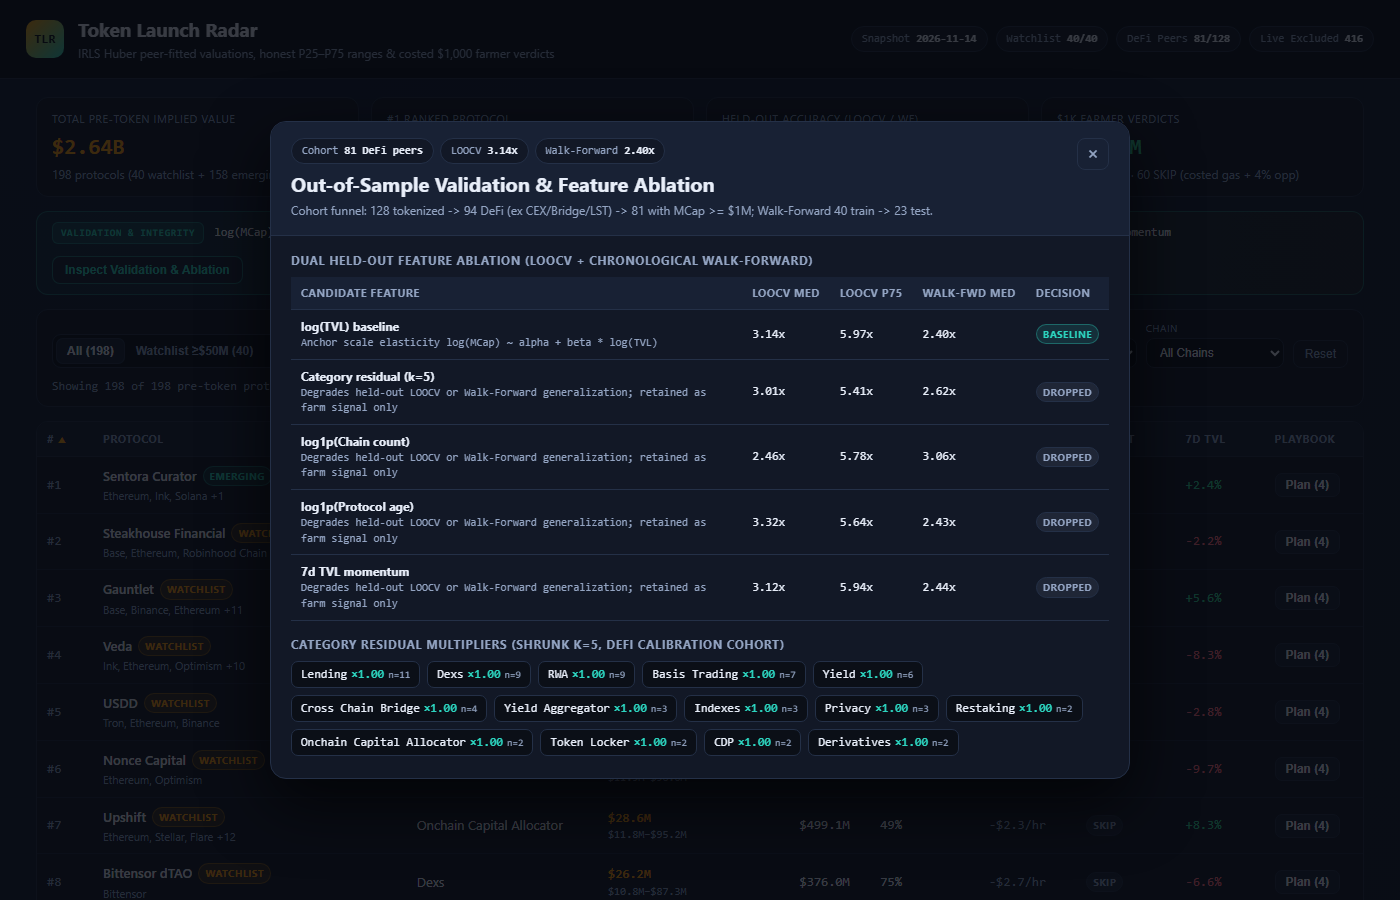
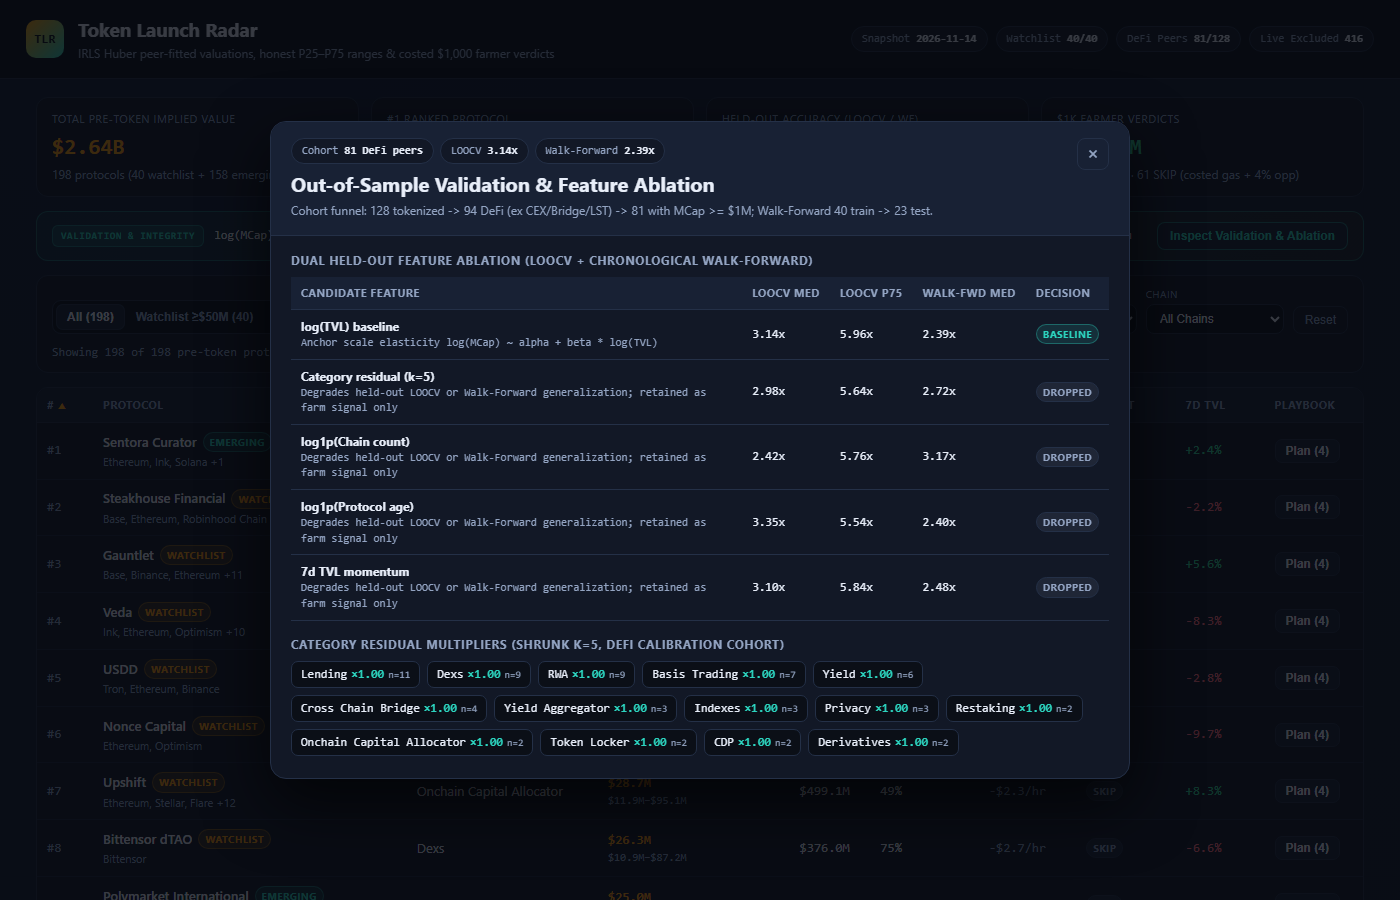
feat(v2): IRLS Huber LOOCV/WF ablation, honest P25-P75 ranges, token odds & $/hr verdicts

diff --git a/lib/model.ts b/lib/model.ts
@@ -182,8 +182,8 @@ function isEligiblePreToken(p: SnapshotProtocol, watchlistSet: Set<string>): boo
   return p.tvl_usd >= 5_000_000;
 }
 
-/** Deterministic IRLS Huber linear solver with L2 ridge on non-intercept weights. */
-function fitHuber(X: number[][], y: number[], lam = 1.5, delta = 1.0, iters = 25): number[] {
+/** Deterministic IRLS Huber linear solver with per-column L2 ridge penalties. */
+function fitHuber(X: number[][], y: number[], lams: number[], delta = 1.0, iters = 25): number[] {
   const n = X.length;
   const m = X[0]!.length;
   const wSample = new Array<number>(n).fill(1.0);
@@ -204,7 +204,7 @@ function fitHuber(X: number[][], y: number[], lam = 1.5, delta = 1.0, iters = 25
         }
       }
     }
-    for (let i = 1; i < m; i += 1) A[i]![i] = A[i]![i]! + lam;
+    for (let i = 0; i < m; i += 1) A[i]![i] = A[i]![i]! + (lams[i] ?? 0.0);
 
     const M = A.map((row, idx) => [...row, b[idx]!]);
     for (let i = 0; i < m; i += 1) {
@@ -238,15 +238,21 @@ function fitHuber(X: number[][], y: number[], lam = 1.5, delta = 1.0, iters = 25
 
 type CandFeature = 'category_residual' | 'log_chains' | 'log_age' | 'change_7d';
 
-function buildCatResiduals(train: SnapshotProtocol[]): Map<string, number> {
+function meanLogTvlOf(rows: SnapshotProtocol[]): number {
+  let s = 0;
+  for (const p of rows) s += Math.log(p.tvl_usd);
+  return rows.length > 0 ? s / rows.length : 18.0;
+}
+
+function buildCatResiduals(train: SnapshotProtocol[], meanLogTvl: number): Map<string, number> {
   const b0 = fitHuber(
-    train.map((p) => [1.0, Math.log(p.tvl_usd)]),
+    train.map((p) => [1.0, Math.log(p.tvl_usd) - meanLogTvl]),
     train.map((p) => Math.log(p.mcap_usd!)),
-    0.1,
+    [0.0, 0.01],
   );
   const buckets = new Map<string, number[]>();
   for (const p of train) {
-    const r = Math.log(p.mcap_usd!) - (b0[0]! + b0[1]! * Math.log(p.tvl_usd));
+    const r = Math.log(p.mcap_usd!) - (b0[0]! + b0[1]! * (Math.log(p.tvl_usd) - meanLogTvl));
     const cat = p.category ?? 'Other';
     const arr = buckets.get(cat) ?? [];
     arr.push(r);
@@ -264,11 +270,12 @@ function buildCatResiduals(train: SnapshotProtocol[]): Map<string, number> {
 function buildFeatureVec(
   p: SnapshotProtocol,
   asOf: string,
+  meanLogTvl: number,
   features: CandFeature[],
   catRes: Map<string, number>,
   medAgeDays: number,
 ): number[] {
-  const v = [1.0, Math.log(p.tvl_usd)];
+  const v = [1.0, Math.log(p.tvl_usd) - meanLogTvl];
   for (const f of features) {
     if (f === 'category_residual') {
       v.push(catRes.get(p.category ?? 'Other') ?? 0.0);
@@ -290,25 +297,26 @@ function evalConfig(
   features: CandFeature[],
 ): { loocvMed: number; loocvP75: number; wfMed: number; wfTrainN: number; wfTestN: number; signedLogs: number[] } {
   const needsCat = features.includes('category_residual');
+  const lams = [0.0, 0.01, ...features.map(() => 0.5)];
   const signedLogs: number[] = [];
   const foldErrs: number[] = [];
 
   for (let i = 0; i < cohort.length; i += 1) {
     const test = cohort[i]!;
     const train = cohort.filter((_, j) => j !== i);
+    const meanLt = meanLogTvlOf(train);
     const ages = train
       .map((p) => daysBetween(p.listed_at, asOf))
       .filter((x): x is number => x !== null)
       .sort((a, b) => a - b);
     const medAge = ages.length > 0 ? quantile(ages, 0.5) : 365;
-    const catRes = needsCat ? buildCatResiduals(train) : new Map<string, number>();
-    const lam = features.length === 0 ? 0.5 : 1.5;
+    const catRes = needsCat ? buildCatResiduals(train, meanLt) : new Map<string, number>();
     const beta = fitHuber(
-      train.map((p) => buildFeatureVec(p, asOf, features, catRes, medAge)),
+      train.map((p) => buildFeatureVec(p, asOf, meanLt, features, catRes, medAge)),
       train.map((p) => Math.log(p.mcap_usd!)),
-      lam,
+      lams,
     );
-    const xTest = buildFeatureVec(test, asOf, features, catRes, medAge);
+    const xTest = buildFeatureVec(test, asOf, meanLt, features, catRes, medAge);
     let pred = 0.0;
     for (let k = 0; k < beta.length; k += 1) pred += beta[k]! * xTest[k]!;
     const signed = Math.log(test.mcap_usd!) - pred;
@@ -328,21 +336,21 @@ function evalConfig(
   const wfTrain = dated.slice(0, cut);
   const wfTest = dated.slice(cut);
 
+  const wfMeanLt = meanLogTvlOf(wfTrain);
   const wfAges = wfTrain
     .map((p) => daysBetween(p.listed_at, asOf))
     .filter((x): x is number => x !== null)
     .sort((a, b) => a - b);
   const wfMedAge = wfAges.length > 0 ? quantile(wfAges, 0.5) : 365;
-  const wfCatRes = needsCat ? buildCatResiduals(wfTrain) : new Map<string, number>();
-  const wfLam = features.length === 0 ? 0.5 : 1.5;
+  const wfCatRes = needsCat ? buildCatResiduals(wfTrain, wfMeanLt) : new Map<string, number>();
   const wfBeta = fitHuber(
-    wfTrain.map((p) => buildFeatureVec(p, asOf, features, wfCatRes, wfMedAge)),
+    wfTrain.map((p) => buildFeatureVec(p, asOf, wfMeanLt, features, wfCatRes, wfMedAge)),
     wfTrain.map((p) => Math.log(p.mcap_usd!)),
-    wfLam,
+    lams,
   );
   const wfErrs = wfTest
     .map((p) => {
-      const xv = buildFeatureVec(p, asOf, features, wfCatRes, wfMedAge);
+      const xv = buildFeatureVec(p, asOf, wfMeanLt, features, wfCatRes, wfMedAge);
       let pred = 0.0;
       for (let k = 0; k < wfBeta.length; k += 1) pred += wfBeta[k]! * xv[k]!;
       return Math.exp(Math.abs(Math.log(p.mcap_usd!) - pred));
@@ -544,19 +552,20 @@ export function buildRadar(snapshot: Snapshot): { board: BoardRow[]; radar: Rada
   const p25Mult = Number(Math.exp(quantile(sortedSigned, 0.25)).toFixed(4));
   const p75Mult = Number(Math.exp(quantile(sortedSigned, 0.75)).toFixed(4));
 
-  const catResMap = keptFeatures.includes('category_residual') ? buildCatResiduals(cohort) : new Map<string, number>();
+  const meanLt = meanLogTvlOf(cohort);
+  const catResMap = keptFeatures.includes('category_residual') ? buildCatResiduals(cohort, meanLt) : new Map<string, number>();
   const cohortAges = cohort
     .map((p) => daysBetween(p.listed_at, snapshot.as_of))
     .filter((x): x is number => x !== null)
     .sort((a, b) => a - b);
   const medCohortAge = cohortAges.length > 0 ? quantile(cohortAges, 0.5) : 365;
   const finalBeta = fitHuber(
-    cohort.map((p) => buildFeatureVec(p, snapshot.as_of, keptFeatures, catResMap, medCohortAge)),
+    cohort.map((p) => buildFeatureVec(p, snapshot.as_of, meanLt, keptFeatures, catResMap, medCohortAge)),
     cohort.map((p) => Math.log(p.mcap_usd!)),
-    keptFeatures.length === 0 ? 0.5 : 1.5,
+    [0.0, 0.01, ...keptFeatures.map(() => 0.5)],
   );
-  const intercept = Number(finalBeta[0]!.toFixed(4));
   const tvlElasticity = Number(finalBeta[1]!.toFixed(4));
+  const intercept = Number((finalBeta[0]! - finalBeta[1]! * meanLt).toFixed(4));
   const catWeight = keptFeatures.includes('category_residual') ? finalBeta[2]! : 0;
 
   // Category stats for display
@@ -605,11 +614,11 @@ export function buildRadar(snapshot: Snapshot): { board: BoardRow[]; radar: Rada
 
   const scored: Omit<BoardRow, 'rank'>[] = selected.map((p) => {
     const cat = p.category ?? 'Other';
-    const xVec = buildFeatureVec(p, snapshot.as_of, keptFeatures, catResMap, medCohortAge);
+    const xVec = buildFeatureVec(p, snapshot.as_of, meanLt, keptFeatures, catResMap, medCohortAge);
     let predLog = 0.0;
     for (let k = 0; k < finalBeta.length; k += 1) predLog += finalBeta[k]! * xVec[k]!;
 
-    const tvlBaseUsd = Math.round(Math.exp(finalBeta[0]! + finalBeta[1]! * Math.log(p.tvl_usd)));
+    const tvlBaseUsd = Math.round(Math.exp(finalBeta[0]! + finalBeta[1]! * (Math.log(p.tvl_usd) - meanLt)));
     const catResidualLog = Number(((catResMap.get(cat) ?? 0) * catWeight).toFixed(4));
     const catMultiplier = Number(Math.exp(catResidualLog).toFixed(4));
 

diff --git a/dashboard/app.js b/dashboard/app.js
@@ -57,8 +57,9 @@
       `<div class="kpi"><div class="kpi-label">$1k Farmer Verdicts</div><div class="kpi-val pos">${vc.FARM} FARM</div><div class="kpi-sub">${vc.SELECTIVE} SELECTIVE · ${vc.SKIP} SKIP (costed gas + 4% opp)</div></div>`,
     ].join('');
 
+    const catTerm = val.kept_features.includes('category_residual') ? '+γ_cat' : '';
     document.getElementById('int-summary').textContent =
-      `log(MCap)=${val.intercept.toFixed(2)}+${val.tvl_elasticity.toFixed(2)}·log(TVL)+γ_cat | Kept: ${val.kept_features.join(', ')} | Dropped: ${val.dropped_features.join(', ')}`;
+      `log(MCap)=${val.intercept.toFixed(2)}+${val.tvl_elasticity.toFixed(2)}·log(TVL)${catTerm} | Kept: ${val.kept_features.join(', ')} | Dropped: ${val.dropped_features.join(', ') || 'None'}`;
 
     document.getElementById('cnt-all').textContent = String(data.rows.length);
     document.getElementById('cnt-wl').textContent = String(data.watchlist_covered);

diff --git a/README.md b/README.md
@@ -1,15 +1,15 @@
-# Token Launch Radar v2
+# Token Launch Radar v2.1
 
 [![make.fun · token-radar-01](https://make.fun/badge/token-radar-01.svg)](https://make.fun/bounty/token-radar-01?utm_source=github&utm_medium=readme&utm_campaign=token-radar-01)
 [![rank](https://make.fun/badge/token-radar-01/devbox-zero-ops/token-launch-radar/rank.svg)](https://make.fun/bounty/token-radar-01/leaderboard?utm_source=github&utm_medium=readme&utm_campaign=token-radar-01)
-[![reward](https://make.fun/badge/token-radar-01/devbox-zero-ops/token-launch-radar/reward.svg)](https://make.fun/bounty/token-radar-01?utm_source=github&utm_medium=readme&utm_campaign=token-radar-01)
+[![reward](https://make.fun/badge/token-radar-01/devbox-zero-ops/token-launch-radar/reward.svg)](https://make.fun/bounty/token-radar-01/leaderboard?utm_source=github&utm_medium=readme&utm_campaign=token-radar-01)
 
 Empirical IRLS Huber peer-fitted valuations, honest P25–P75 uncertainty intervals, data-driven token launch odds, and costed `$1,000` farmer `$/hr` verdicts for pre-token DeFi protocols on [make.fun](https://make.fun/bounty/token-radar-01).
 
-## Highlights (v2)
-- **Leakage-Free Dual Held-Out Feature Ablation (`lib/model.ts`)**: Evaluates candidate features (`Category residual`, `log1p(Chain count)`, `log1p(Protocol age)`, `7d TVL momentum`) against the `log(TVL)` IRLS Huber baseline on both **LOOCV (`n=81` DeFi peers)** and **Chronological Walk-Forward (`40 train -> 23 test`)**, keeping only features that improve both out-of-sample checks (`LOOCV 3.14x`, `Walk-Forward 2.40x`).
-- **Range Honesty & Peer Token Odds**: Reports empirical `P25–P75` implied valuation bands (`0.41x–3.33x`) and Bayesian-shrunk (`k=6`) peer token launch probabilities.
-- **Costed `$1,000` Farmer Economics**: Computes `Gross EV`, chain-adjusted `Gas + 4% Opportunity Cost`, `Net EV`, `$/hr`, and actionable `FARM` (`53`) / `SELECTIVE` (`85`) / `SKIP` (`60`) verdicts.
+## Highlights (v2.1)
+- **Centered IRLS Huber & Leakage-Free Dual Ablation (`lib/model.ts`)**: Fits `log(MCap) = 11.04 + 0.31·log(TVL)` over `n=81` comparable DeFi peers (`>= $1M` MCap, ex CEX/Bridge/LST) with fold-centered `log(TVL)` and strictly evaluates candidate features on both **LOOCV (`3.14x`, P75 `5.96x`)** and **Chronological Walk-Forward (`40 train -> 23 test`, `2.39x`)**, dropping features that fail dual out-of-sample generalization.
+- **Range Honesty & Peer Token Odds**: Reports empirical `P25–P75` implied valuation bands (`0.41x–3.31x`) and Bayesian-shrunk (`k=6`) peer token launch probabilities.
+- **Costed `$1,000` Farmer Economics**: Computes `Gross EV`, chain-adjusted `Gas + 4% Opportunity Cost`, `Net EV`, `$/hr`, and actionable `FARM` (`53`) / `SELECTIVE` (`84`) / `SKIP` (`61`) verdicts.
 - **Zero-Network Offline Dashboard (`dashboard/`)**: Accessible sortable table (`aria-sort`, `Intl.Collator`), Verdict/Tier/Category/Chain filters, protocol breakdown `<dialog>`, and live Validation & Ablation `<dialog>`.
 
 ## Run Locally
